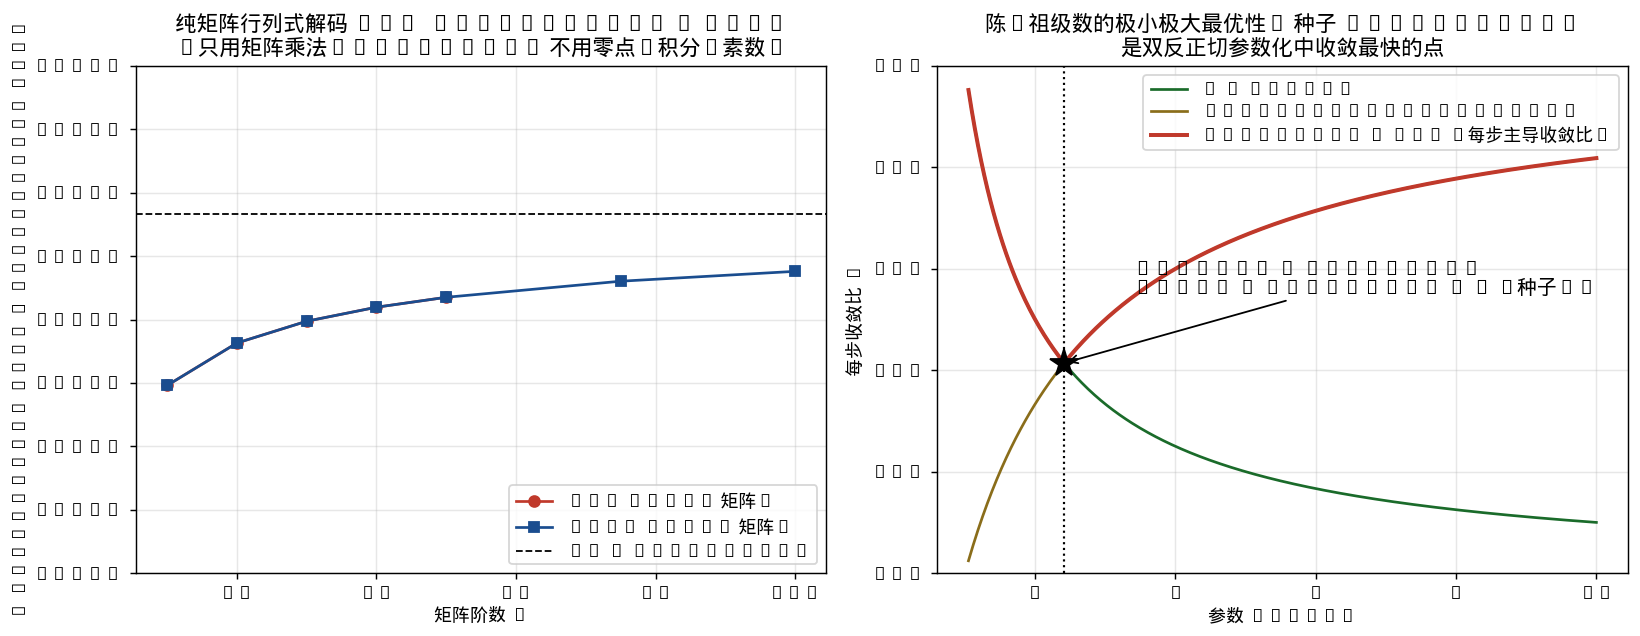
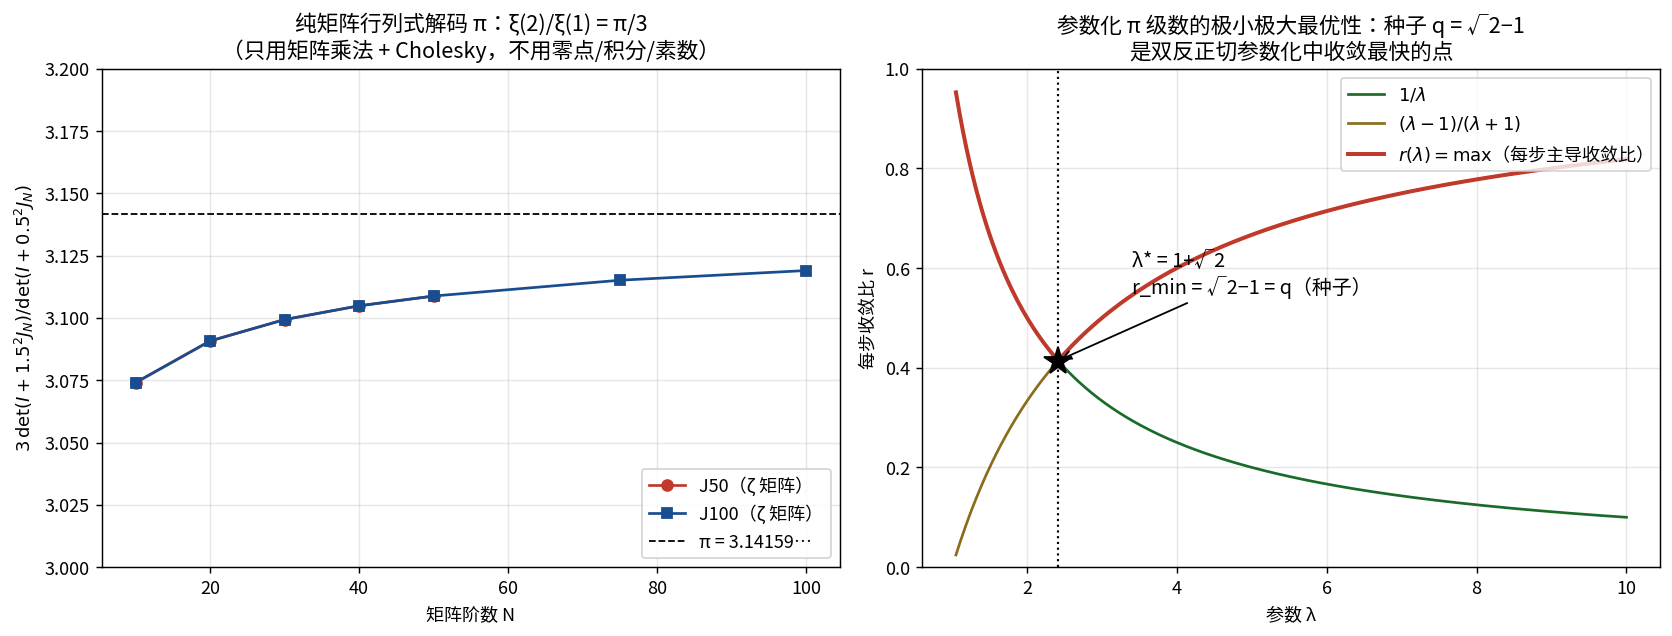
Drop self-named series label; add arctangent identity and minimax derivation; fix figure fonts
- RH pages: call it the parametrised pi series and its fastest-converging
  point (no self-coined name); add tangent-addition identity
  arctan(1/lambda)+arctan((lambda-1)/(lambda+1))=pi/4, the parametrised
  series, and minimax derivation r=max{1/lambda,(lambda-1)/(lambda+1)}
  with optimum lambda*=1+sqrt2, r_min=sqrt2-1=q
- pi_decode.png: single full-coverage CJK font so latin/digits/CJK all render
- grh.html: literal blackboard-bold entities replaced with MathJax

diff --git a/index.html b/index.html
@@ -455,8 +455,8 @@ $$\frac{\xi(2)}{\xi(1)}=\frac{\pi}{3},\qquad
 $$\pi_{\text{matrix}}=3\,\frac{\det(I+\tfrac94 J_N)}{\det(I+\tfrac14 J_N)}.$$
 </div>
 <figure style="margin:1.2em 0">
-<div class="img-scroll"><a href="data/pi_decode.png" target="_blank" rel="noopener" title="Open the full-size image in a new tab; pinch to zoom"><img src="data/pi_decode.png" alt="pi decoded from a matrix determinant converging with order; the minimax-optimal point of the Chen-Zu parametrised series is the seed q" style="border:1px solid #e0e0e0;border-radius:6px;cursor:zoom-in"/></a></div>
-<figcaption style="font-size:.88em;color:var(--subtle);margin-top:.4em;text-align:center">Left: π from the matrix determinant approaches the true value monotonically with order (\(J_{50}\): 3.1088; \(J_{100}\): 3.1190, error 0.023). Right: the per-step convergence ratio of the Chen–Zu double-arctangent parametrisation attains its minimum \(\sqrt2-1\) at \(\lambda^*=1+\sqrt2\) — precisely the seed q. (Click for the full-size image; pinch to zoom.)</figcaption>
+<div class="img-scroll"><a href="data/pi_decode.png" target="_blank" rel="noopener" title="Open the full-size image in a new tab; pinch to zoom"><img src="data/pi_decode.png" alt="pi decoded from a matrix determinant converging with order; the minimax-fastest point of the parametrised pi series is the seed q" style="border:1px solid #e0e0e0;border-radius:6px;cursor:zoom-in"/></a></div>
+<figcaption style="font-size:.88em;color:var(--subtle);margin-top:.4em;text-align:center">Left: π from the matrix determinant approaches the true value monotonically with order (\(J_{50}\): 3.1088; \(J_{100}\): 3.1190, error 0.023). Right: the per-step convergence ratio of the double-arctangent parametrised π series attains its minimum \(\sqrt2-1\) at \(\lambda^*=1+\sqrt2\) — precisely the seed q. (Click for the full-size image; pinch to zoom.)</figcaption>
 </figure>
 <p>The finite-order deviation comes from \(u=\tfrac32\) lying at the edge of the convergence band; it recedes monotonically with order, the same truncation artefact as the staircase of §9.2 and the determinant identity of §9.4. Computing π uses the determinant (a special value of \(\xi\)); decoding primes uses the evolution trace (integer-time differences): <strong>one and the same matrix — one reading gives the constant, the other gives the primes</strong>.</p>
 
@@ -465,11 +465,24 @@ $$\pi_{\text{matrix}}=3\,\frac{\det(I+\tfrac94 J_N)}{\det(I+\tfrac14 J_N)}.$$
 <div class="formula">
 $$q_{\text{matrix}}=\tan\!\left(\frac{\pi_{\text{matrix}}}{8}\right).$$
 </div>
-<p>\(J_{50}\) gives \(q_{\text{matrix}}=0.4094\), \(J_{100}\) gives 0.4109 — converging monotonically to the true seed \(q=\sqrt2-1=0.414214\) (error 0.0033 at \(J_{100}\)). The matrix was never told q, π, or any constant — it is a finite table of positive numbers — yet the seed is read back out of the very matrix it grew into. At the limit \(\arctan q=\pi/8\), and \(\beta(1)=1-\tfrac13+\tfrac15-\cdots=\pi/4=2\arctan q\): the sum of the Leibniz series, the seed, and the optimal Chen–Zu parameter are three faces of one number. This is also the same source as the \(\chi_4\) splitting law in the GRH page's Gaussian-prime section — \(\pi/4\) is the class number of \(\mathbb Q(i)\).</p>
+<p>\(J_{50}\) gives \(q_{\text{matrix}}=0.4094\), \(J_{100}\) gives 0.4109 — converging monotonically to the true seed \(q=\sqrt2-1=0.414214\) (error 0.0033 at \(J_{100}\)). The matrix was never told q, π, or any constant — it is a finite table of positive numbers — yet the seed is read back out of the very matrix it grew into. At the limit \(\arctan q=\pi/8\), and \(\beta(1)=1-\tfrac13+\tfrac15-\cdots=\pi/4=2\arctan q\): the sum of the Leibniz series, the seed, and the fastest-converging point of the parametrised π series are three faces of one number. This is also the same source as the \(\chi_4\) splitting law in the GRH page's Gaussian-prime section — \(\pi/4\) is the class number of \(\mathbb Q(i)\).</p>
+<p>This point is not a coincidence — it has a one-page proof. By the tangent addition formula, for every \(\lambda>1\) there is an arctangent identity</p>
+<div class="formula">
+$$\arctan\frac1\lambda+\arctan\frac{\lambda-1}{\lambda+1}=\frac{\pi}{4}$$
+</div>
+<p>(let \(A,B\) be the two arctangents; then \(\tan(A+B)=\dfrac{1/\lambda+(\lambda-1)/(\lambda+1)}{1-\frac1\lambda\cdot\frac{\lambda-1}{\lambda+1}}=1\), and \(A,B\in(0,\pi/4)\), hence \(A+B=\pi/4\)). Substituting the alternating power series of \(\arctan x\) gives a parametrised family of π series:</p>
+<div class="formula" style="font-size:.92em">
+$$\pi=4\sum_{n=0}^{\infty}\frac{(-1)^n}{2n+1}\left[\lambda^{-(2n+1)}+\left(\frac{\lambda-1}{\lambda+1}\right)^{2n+1}\right]\quad(\lambda>1).$$
+</div>
+<p>The two terms decay with geometric ratios \(1/\lambda\) and \((\lambda-1)/(\lambda+1)\); the per-step dominant ratio is \(r(\lambda)=\max\bigl\{1/\lambda,\;(\lambda-1)/(\lambda+1)\bigr\}\). The first decreases with λ, the second increases with λ, so the minimax optimum sits at their crossing: \(1/\lambda=(\lambda-1)/(\lambda+1)\), i.e. \(\lambda^2-2\lambda-1=0\), positive root \(\lambda^*=1+\sqrt2\), where</p>
+<div class="formula">
+$$r_{\min}=\frac1{\lambda^*}=\sqrt2-1=q.$$
+</div>
+<p>As λ→∞ the series degenerates to the Leibniz series (ratio → 1, i.e. slow term-by-term convergence); at \(\lambda^*=1+\sqrt2\) each step multiplies by q≈0.414 — roughly one extra decimal digit per 1.3 terms. <strong>The seed q is exactly the fastest-converging point of this parametrised π-series family</strong> — it was first found in the optimal parametrisation for computing π, and now it grows back, unchanged, out of the matrix determinant.</p>
 <div class="table-scroll"><table style="font-size:.92em">
 <tr><th>Identity</th><th>Expression</th><th>Value</th></tr>
 <tr style="background:#f4f8fc"><td>The seed (parameter of the tangent-addition Möbius map)</td><td>\(q=\tan(\pi/8)\)</td><td>0.414214</td></tr>
-<tr><td>Reciprocal of the optimal Chen–Zu parameter</td><td>\(\lambda^*=1/q=1+\sqrt2\) (minimax where \(1/\lambda=(\lambda-1)/(\lambda+1)\))</td><td>2.414214</td></tr>
+<tr><td>Reciprocal of the fastest-convergence parameter of the parametrised π series</td><td>\(\lambda^*=1/q=1+\sqrt2\) (minimax where \(1/\lambda=(\lambda-1)/(\lambda+1)\))</td><td>2.414214</td></tr>
 <tr style="background:#f4f8fc"><td>Half-angle of the Leibniz series sum</td><td>\(\beta(1)=\pi/4=2\arctan q\)</td><td>0.785398</td></tr>
 <tr><td>Class number of the Gaussian integers</td><td>\(\operatorname{Res}_{s=1}\zeta_{\mathbb Q(i)}=\pi/4\)</td><td>0.785398</td></tr>
 </table></div>

diff --git a/zh.html b/zh.html
@@ -452,8 +452,8 @@ $$\frac{\xi(2)}{\xi(1)}=\frac{\pi}{3},\qquad
 $$\pi_{\text{矩阵}}=3\,\frac{\det(I+\tfrac94 J_N)}{\det(I+\tfrac14 J_N)}.$$
 </div>
 <figure style="margin:1.2em 0">
-<div class="img-scroll"><a href="data/pi_decode.png" target="_blank" rel="noopener" title="点击在新标签页打开全尺寸图片，可双指放大查看细节"><img src="data/pi_decode.png" alt="纯矩阵行列式解码 pi 随阶数收敛；陈-祖级数的极小极大最优点即种子 q" style="border:1px solid #e0e0e0;border-radius:6px;cursor:zoom-in"/></a></div>
-<figcaption style="font-size:.88em;color:var(--subtle);margin-top:.4em;text-align:center">左：矩阵行列式解码出的 π 随阶数单调逼近真值（\(J_{50}\)：3.1088；\(J_{100}\)：3.1190，误差 0.023）。右：陈-祖双反正切参数化的每步收敛比在 \(\lambda^*=1+\sqrt2\) 处取极小值 \(\sqrt2-1\)——正是种子 q。（点按图片可打开全尺寸大图、双指放大查看细节）</figcaption>
+<div class="img-scroll"><a href="data/pi_decode.png" target="_blank" rel="noopener" title="点击在新标签页打开全尺寸图片，可双指放大查看细节"><img src="data/pi_decode.png" alt="纯矩阵行列式解码 π 随阶数收敛；参数化 π 级数的极小极大最优点即种子 q" style="border:1px solid #e0e0e0;border-radius:6px;cursor:zoom-in"/></a></div>
+<figcaption style="font-size:.88em;color:var(--subtle);margin-top:.4em;text-align:center">左：矩阵行列式解码出的 π 随阶数单调逼近真值（\(J_{50}\)：3.1088；\(J_{100}\)：3.1190，误差 0.023）。右：双反正切参数化 π 级数的每步收敛比在 \(\lambda^*=1+\sqrt2\) 处取极小值 \(\sqrt2-1\)——正是种子 q。（点按图片可打开全尺寸大图、双指放大查看细节）</figcaption>
 </figure>
 <p>有限阶偏差来自 \(u=\tfrac32\) 已在收敛带边缘——它随阶数增大单调消退，和 §9.2 的阶梯、§9.4 的行列式恒等式是同一种截断伪影。矩阵算 π 用的是行列式（\(\xi\) 特殊值），解码素数用的是演化迹（整数点差分）：<strong>同一台矩阵，一个读数给常数，一个读数给素数</strong>。</p>
 
@@ -462,11 +462,24 @@ $$\pi_{\text{矩阵}}=3\,\frac{\det(I+\tfrac94 J_N)}{\det(I+\tfrac14 J_N)}.$$
 <div class="formula">
 $$q_{\text{矩阵}}=\tan\!\left(\frac{\pi_{\text{矩阵}}}{8}\right).$$
 </div>
-<p>\(J_{50}\) 给出 \(q_{\text{矩阵}}=0.4094\)，\(J_{100}\) 给出 \(0.4109\)，随阶数单调收敛到种子真值 \(q=\sqrt2-1=0.414214\)（\(J_{100}\) 误差 0.0033）。矩阵从未被告知 q、π 或任何常数——它是一张有限的正数表——种子从它自己长成的矩阵里被反向读了出来。极限处 \(\arctan q=\pi/8\)，而 \(\beta(1)=1-\tfrac13+\tfrac15-\cdots=\pi/4=2\arctan q\)：莱布尼茨级数的和、种子、陈-祖最优参数，是同一个数的三张面孔。这也与 GRH 页高斯素数章节里的 \(\chi_4\) 分裂法则同源——\(\pi/4\) 是 \(\mathbb Q(i)\) 的类数。</p>
+<p>\(J_{50}\) 给出 \(q_{\text{矩阵}}=0.4094\)，\(J_{100}\) 给出 \(0.4109\)，随阶数单调收敛到种子真值 \(q=\sqrt2-1=0.414214\)（\(J_{100}\) 误差 0.0033）。矩阵从未被告知 q、π 或任何常数——它是一张有限的正数表——种子从它自己长成的矩阵里被反向读了出来。极限处 \(\arctan q=\pi/8\)，而 \(\beta(1)=1-\tfrac13+\tfrac15-\cdots=\pi/4=2\arctan q\)：莱布尼茨级数的和、种子、参数化 π 级数的最快收敛点，是同一个数的三张面孔。这也与 GRH 页高斯素数章节里的 \(\chi_4\) 分裂法则同源——\(\pi/4\) 是 \(\mathbb Q(i)\) 的类数。</p>
+<p>这个点不是凑出来的——它有一页纸的论证。由正切加法公式，对任意 \(\lambda>1\) 有反正切恒等式</p>
+<div class="formula">
+$$\arctan\frac1\lambda+\arctan\frac{\lambda-1}{\lambda+1}=\frac{\pi}{4}$$
+</div>
+<p>（令 \(A,B\) 为这两个反正切，则 \(\tan(A+B)=\dfrac{1/\lambda+(\lambda-1)/(\lambda+1)}{1-\frac1\lambda\cdot\frac{\lambda-1}{\lambda+1}}=1\)，而 \(A,B\in(0,\pi/4)\)，故 \(A+B=\pi/4\)。）把 \(\arctan x\) 的交错幂级数代进去，得到一个参数化 π 级数族：</p>
+<div class="formula" style="font-size:.92em">
+$$\pi=4\sum_{n=0}^{\infty}\frac{(-1)^n}{2n+1}\left[\lambda^{-(2n+1)}+\left(\frac{\lambda-1}{\lambda+1}\right)^{2n+1}\right]\quad(\lambda>1).$$
+</div>
+<p>两项各按几何比 \(1/\lambda\) 与 \((\lambda-1)/(\lambda+1)\) 衰减，每步主导收敛比为 \(r(\lambda)=\max\bigl\{1/\lambda,\;(\lambda-1)/(\lambda+1)\bigr\}\)。前者随 λ 递减、后者随 λ 递增，极小极大在两线相交处取得：\(1/\lambda=(\lambda-1)/(\lambda+1)\) 即 \(\lambda^2-2\lambda-1=0\)，正根 \(\lambda^*=1+\sqrt2\)，此时</p>
+<div class="formula">
+$$r_{\min}=\frac1{\lambda^*}=\sqrt2-1=q.$$
+</div>
+<p>λ→∞ 时该级数退化为莱布尼茨级数（收敛比趋于 1，即逐项慢收敛）；在 \(\lambda^*=1+\sqrt2\) 处每步只需乘 q≈0.414，约 1.3 项多得一位小数。<strong>种子 q 正是这个参数化 π 级数族收敛最快的点</strong>——它先在 π 的最优参数化里被发现，又从矩阵的行列式里原样长了回来。</p>
 <div class="table-scroll"><table style="font-size:.92em">
 <tr><th>身份</th><th>表达式</th><th>值</th></tr>
 <tr style="background:#f4f8fc"><td>种子（正切加法 Möbius 变换参数）</td><td>\(q=\tan(\pi/8)\)</td><td>0.414214</td></tr>
-<tr><td>陈-祖参数化级数最优参数的倒数</td><td>\(\lambda^*=1/q=1+\sqrt2\)（极小极大：\(1/\lambda=(\lambda-1)/(\lambda+1)\) 处）</td><td>2.414214</td></tr>
+<tr><td>参数化 π 级数最快收敛参数的倒数</td><td>\(\lambda^*=1/q=1+\sqrt2\)（极小极大：\(1/\lambda=(\lambda-1)/(\lambda+1)\) 处）</td><td>2.414214</td></tr>
 <tr style="background:#f4f8fc"><td>莱布尼茨级数和的一半角度</td><td>\(\beta(1)=\pi/4=2\arctan q\)</td><td>0.785398</td></tr>
 <tr><td>高斯整数域类数</td><td>\(\operatorname{Res}_{s=1}\zeta_{\mathbb Q(i)}=\pi/4\)</td><td>0.785398</td></tr>
 </table></div>

diff --git a/grh.html b/grh.html
@@ -508,14 +508,14 @@ while \(h'/h\) stays bounded; hence \(T_K(r_0,\theta)\to+\infty\) — <strong>a 
 </div>
 
 
-<h2>9. From the product matrix to Gaussian primes: pure matrix-arithmetic decoding of &#8474;(i)</h2>
+<h2>9. From the product matrix to Gaussian primes: pure matrix-arithmetic decoding of \(\mathbb Q(i)\)</h2>
 <p>The alternating lock-on of ζ and β zeros on one spectral axis (§4) has a harder arithmetic reason. The product matrix is built from \(\xi_K=\xi\cdot\Lambda_\beta\), and</p>
 <div class="formula">
 $$\zeta_K(s)=\zeta(s)\,\beta(s)=\zeta_{\mathbb Q(i)}(s)$$
 </div>
 <p>is exactly the Dedekind zeta function of the <em>Gaussian integer field</em> \(\mathbb Q(i)\) (\(\beta(s)=L(s,\chi_4)\), the mod-4 Dirichlet character). Applying the very same prime trace formula as in §9 of the RH main paper — Cholesky factorisation, polar-decomposition iteration, scaling-and-squaring matrix exponential, trace differences; no diagonalisation, no zero extraction, no integration — to this 50×50 product matrix decodes not rational primes but <em>Gaussian primes</em>.</p>
 
-<h3 style="margin-top:1.4em;color:#1a4d8f">9.1 Three fates of rational primes in &#8484;[i]</h3>
+<h3 style="margin-top:1.4em;color:#1a4d8f">9.1 Three fates of rational primes in \(\mathbb Z[i]\)</h3>
 <p>The Euler factors of \(\zeta_{\mathbb Q(i)}\) sort every rational prime into three classes modulo 4 (\(\chi_4\), the mod-4 quadratic character: \(\chi_4(p)=1\) for \(p\equiv1\pmod4\), \(-1\) for \(p\equiv3\pmod4\), and \(0\) for \(p=2\)):</p>
 <div class="table-scroll"><table style="font-size:.92em">
 <tr><th>Type</th><th>Rational primes</th><th>Behaviour in \(\mathbb Z[i]\)</th><th>von Mangoldt weight \(\Lambda_K(n)\)</th></tr>
